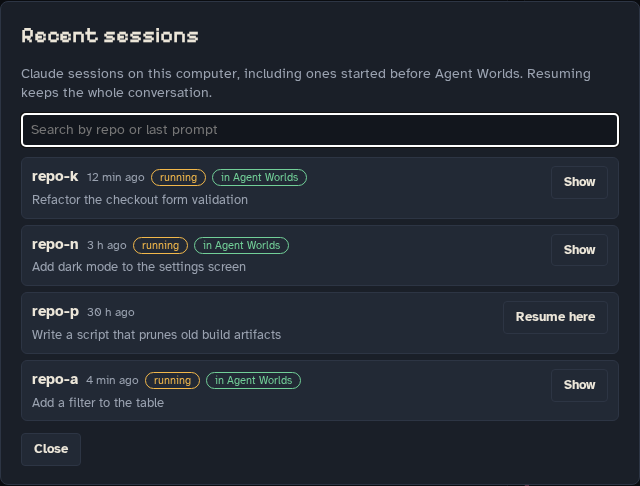
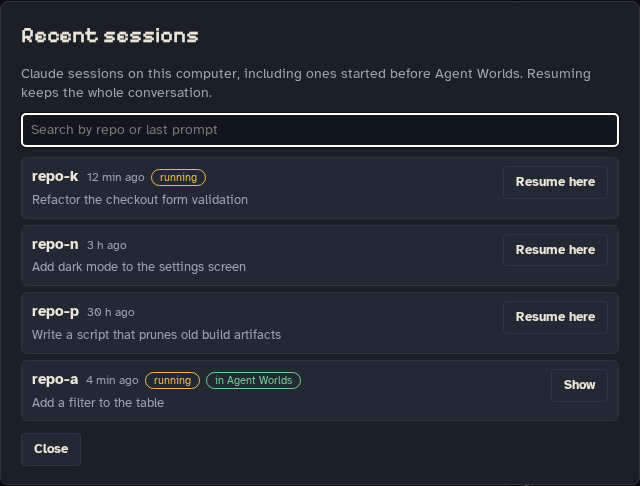
README: resume, terminal and browser together, outside tmux, troubleshooting, open command, shortcuts; recent-sessions screenshot

diff --git a/README.md b/README.md
@@ -64,8 +64,46 @@ session). Type to it directly; the catch-up box above it tells you where it stan
 
 ![Selecting a session, asking for a catch-up, then typing a slash command in the live terminal](docs/media/terminal.gif)
 
-Sessions that are not inside tmux still show up and their cards still work, but the terminal
-is view-only for them.
+Sessions that are not inside tmux still show up and their cards still work, but they have no
+live terminal (see [Sessions started outside tmux](#sessions-started-outside-tmux)).
+
+### Existing sessions and Resume
+
+Agent Worlds also knows about Claude sessions you started before it, or outside it.
+
+- **Recent sessions** (header button or `R`) lists sessions from `~/.claude/projects`, newest
+  first, with the repo, your last prompt and how long ago. Search narrows the list.
+- **Resume here** runs `claude --resume <id>` in a new tmux session, in the session's original
+  folder, with its full conversation. If that session still looks open somewhere else, you are
+  asked first; **Resume anyway** goes ahead.
+- A Claude running in a plain terminal appears as a faded **ghost** with a dashed outline and
+  the label "plain terminal", in its world's lounge (or Unsorted). Select it and quit that
+  terminal's Claude, then **Move into Agent Worlds** to take it over.
+- Process detection reads `/proc`, so it is **Linux only**. Elsewhere there are no ghosts, but
+  Recent sessions and Resume work.
+
+![The Recent sessions dialog](docs/media/recent-sessions.png)
+
+### Terminal and browser together
+
+Every session is a tmux session named `aw-<repo>-<id>`, so you can use it from a terminal as
+well as the browser, at the same time.
+
+```sh
+bin/agent-worlds ls        # list Agent Worlds tmux sessions
+bin/agent-worlds attach    # pick one and attach (asks which when there is more than one)
+```
+
+`attach [name]` attaches the current terminal, and inside tmux it switches your client instead
+of nesting. This is the way to use a terminal such as Ghostty. The panel also shows the plain
+`tmux attach -t <name>` command with a copy button. The window size follows whichever client
+typed last.
+
+### Sessions started outside tmux
+
+A session you started by hand in a plain terminal (with the hooks installed) still shows up: its
+state, rooms and inbox cards all work. It has no live terminal in the browser, only a note that
+it is view-only; answer its cards from the inbox, or in the terminal it runs in.
 
 ### Start sessions from the app
 
@@ -104,11 +142,13 @@ From the repository folder:
 (cd server && npm install)
 (cd web && npm install && npm run build)
 bin/agent-worlds start    # keep this running, e.g. in its own tmux window
-bin/agent-worlds url      # in another shell: prints http://127.0.0.1:4317/?token=...
+bin/agent-worlds open     # in another shell: opens the app in your browser, already logged in
 ```
 
-Open the printed URL (it stores the token in a cookie and redirects to the app), then press
-**`W`** to create your first world and add its repos. Put `bin/agent-worlds` on your PATH if you
+`open` launches your browser with the login link (it uses `xdg-open`, or `open` on macOS) and
+prints the link if it finds no opener. `bin/agent-worlds url` just prints it
+(`http://127.0.0.1:4317/?token=...`). The link stores the token in a cookie and redirects to the
+app. Then press **`W`** to create your first world and add its repos. Put `bin/agent-worlds` on your PATH if you
 like: `ln -s "$PWD/bin/agent-worlds" ~/.local/bin/`.
 
 Click **+ New session** in a room, or from a shell:
@@ -176,16 +216,19 @@ flowchart LR
 
 ## Keyboard shortcuts
 
-Press `?` in the app for this list. Shortcuts pause while you type in the terminal or a field.
+Press `?` in the app for this list. Shortcuts pause while you type in the terminal or a field; the terminal header says
+"Shortcuts paused" while it has focus.
 
 | Key | Action |
 |---|---|
 | `Space` | jump to the next session that needs you |
 | `1` - `9` | select the session with that number (the small number on its chip) |
 | `N` | new session in the selected session's world |
+| `R` | open Recent sessions (resume an earlier session) |
 | `C` | catch me up on the selected session |
 | `W` | open the Worlds panel |
 | `M` | mute or unmute the alert sound |
+| `Ctrl` + `]` | leave the terminal and get the shortcuts back (`Esc` still goes to Claude) |
 | `?` | show the shortcuts |
 | `Esc` | close the dialog or panel |
 
@@ -222,11 +265,14 @@ Other environment variables: `AGENT_WORLDS_HOME` (config folder) and `AGENT_WORL
   is a full shell as your user, and allowing a permission runs commands on your machine. If you
   add an address to `listen` for phone use, make it one only you can reach (a private VPN such
   as Tailscale), never a LAN or public address. Anyone holding the token on that network has your shell.
+- **Why a token on localhost?** Anyone else logged in to the same machine can reach `127.0.0.1`,
+  and the terminal is a shell as you.
 - Every HTTP route and both websockets require the token (cookie `aw_token` or header
-  `X-AW-Token`). The token is in `~/.config/agent-worlds/token` (mode 0600); delete it and
-  restart to rotate. The PWA manifest and icons are the only files served without it.
-- Requests that carry an `Origin` header must come from the server's own host:port or an
-  `extraHosts` entry.
+  `X-AW-Token`). The login cookie lasts a year, so you only enter the token again after clearing
+  cookies or changing it. The token is in `~/.config/agent-worlds/token` (mode 0600); delete it
+  and restart to rotate. The PWA manifest and icons are the only files served without it.
+- Requests that carry an `Origin` header, and the `Host` of every request, must be the server's
+  own host:port or an `extraHosts` entry (otherwise 421 "unknown host").
 - Session state is in memory only. After a restart, a session reappears on its next hook event.
 
 ## Troubleshooting
@@ -239,10 +285,21 @@ Other environment variables: `AGENT_WORLDS_HOME` (config folder) and `AGENT_WORL
 - **A card says "Answer this in the terminal".** That request is no longer held by the server
   (no browser was open when it arrived, or the hold timed out). Click **Open its terminal** and
   answer Claude's own prompt.
-- **A new session sits at a "trust this folder" prompt.** That is Claude Code asking about an
-  unfamiliar folder; answer it in the terminal panel once.
+- **A new session seems stuck.** Claude may be asking to trust the folder. The session shows as
+  "starting" until its first event; answer the question in its terminal panel once.
 - **The terminal says the session is view-only.** The session is not running inside tmux. Cards
   still work; start it in tmux (or from the app) for a live terminal.
+- **No permission cards appear.** Your Claude default permission mode is `auto` or bypass, so
+  Claude never asks. `acceptEdits` mode also gives no cards for file edits. Agent Worlds only
+  sees what Claude asks.
+- **"unknown host" (421).** The server only answers its own address. Add the `host:port` you
+  are using (for example a tunnel under another name) to `extraHosts` in the config and
+  restart.
+- **An old link says it no longer works.** The token changed. Run `bin/agent-worlds open` on the
+  machine running the server for a fresh link.
+- **"Always allow: In <repo>" and worktrees.** The rule is written to the main repo's
+  `.claude/settings.local.json`. Claude Code 2.1.211 or newer applies it in that repo's
+  worktrees too.
 - **My phone does not offer "Install app".** Browsers only offer installation over https or on
   localhost, so a plain `http://100.x.y.z:4317` address works in the browser but will not
   install. Put the server behind an https proxy on your private network (for example
